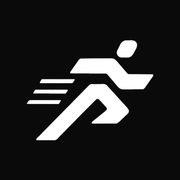
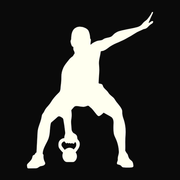
Atualiza a marca para a versão 2026: novo ícone e "Movimento que se constrói."
- Logo, ícone, AURUM e frase recortados do PNG oficial transparente
- Cabeçalho, abertura, menu, Kids, manifesto final e rodapé com a marca nova
- Favicon, ícone Apple e imagem de compartilhamento regenerados
- Arquivos com sufixo -2026 para nenhum cache servir a marca antiga
- Remove a assinatura horizontal antiga

Changed region(s): [[0.1389, 0.0556, 0.8611, 0.9444]]

diff --git a/src/components/ui/Brand.tsx b/src/components/ui/Brand.tsx
@@ -3,78 +3,63 @@ import { brand } from "@/content/aurum";
 import { cn } from "@/lib/utils";
 
 /*
- * Assinaturas montadas com os recortes oficiais (ver scripts/brand-assets.mjs):
- * símbolo + wordmark AURUM, sem alterar proporções. A frase de assinatura
- * ("Movimento que se constrói.") entra como texto, porque as versões do logo
- * com frase trazem a assinatura antiga desenhada.
+ * Marca 2026 recortada do PNG oficial (ver scripts/brand-assets.mjs):
+ * ícone, AURUM e a frase "Movimento que se constrói." na tipografia original.
+ * As proporções são preservadas; só a largura ou a altura é definida via className.
  */
 
 type Props = { className?: string; priority?: boolean };
 
 const ALT = `AURUM — ${brand.tagline}`;
 
-/** Assinatura vertical: símbolo, AURUM e (opcional) a frase embaixo. */
+/** Assinatura vertical oficial: ícone, AURUM e frase. Sem a frase em usos muito pequenos. */
 export function BrandLockup({ className, priority, tagline = true }: Props & { tagline?: boolean }) {
+  if (tagline) {
+    return (
+      <Image
+        src="/aurum/brand/aurum-lockup-2026.png"
+        alt={ALT}
+        width={1287}
+        height={931}
+        preload={priority}
+        className={cn("h-auto", className)}
+        sizes="(max-width: 768px) 60vw, 400px"
+      />
+    );
+  }
   return (
-    <span role="img" aria-label={ALT} className={cn("inline-flex flex-col items-center", className)}>
-      <Image src="/aurum/brand/aurum-symbol.png" alt="" width={347} height={276} preload={priority} className="h-auto w-[44%]" sizes="200px" />
-      <Image src="/aurum/brand/aurum-wordmark-solo.png" alt="" width={792} height={145} preload={priority} className="mt-[7%] h-auto w-full" sizes="400px" />
-      {tagline && <span className="mt-[5%] whitespace-nowrap font-normal tracking-[0.22em] text-bone">{brand.tagline}</span>}
+    <span role="img" aria-label="AURUM" className={cn("inline-flex flex-col items-center", className)}>
+      <Image src="/aurum/brand/aurum-symbol-2026.png" alt="" width={416} height={514} preload={priority} className="h-auto w-[34%]" sizes="160px" />
+      <Image src="/aurum/brand/aurum-wordmark-solo-2026.png" alt="" width={1099} height={205} preload={priority} className="mt-[9%] h-auto w-full" sizes="400px" />
     </span>
   );
 }
 
-/** Assinatura horizontal: símbolo à esquerda, AURUM e a frase à direita. */
+/** Assinatura horizontal: ícone à esquerda; AURUM e a frase à direita. */
 export function BrandHorizontal({ className }: Props) {
   return (
     <span role="img" aria-label={ALT} className={cn("inline-flex items-center gap-[5%]", className)}>
-      <Image src="/aurum/brand/aurum-symbol.png" alt="" width={347} height={276} className="h-auto w-[26%] shrink-0" sizes="90px" />
+      <Image src="/aurum/brand/aurum-symbol-2026.png" alt="" width={416} height={514} className="h-auto w-[20%] shrink-0" sizes="80px" />
       <span className="flex min-w-0 flex-1 flex-col">
-        <Image src="/aurum/brand/aurum-wordmark-solo.png" alt="" width={792} height={145} className="h-auto w-full" sizes="240px" />
-        <span className="mt-[6%] whitespace-nowrap text-[0.6rem] font-normal tracking-[0.12em] text-bone md:text-[0.68rem] md:tracking-[0.16em]">
-          {brand.tagline}
-        </span>
+        <Image src="/aurum/brand/aurum-wordmark-solo-2026.png" alt="" width={1099} height={205} className="h-auto w-full" sizes="260px" />
+        <Image src="/aurum/brand/aurum-tagline-2026.png" alt="" width={1287} height={58} className="mt-[7%] h-auto w-full" sizes="260px" />
       </span>
     </span>
   );
 }
 
-/** Símbolo + wordmark lado a lado, como nas aplicações horizontais da marca. */
+/** Ícone + AURUM lado a lado (cabeçalho). */
 export function BrandInline({ className, priority }: Props) {
   return (
     <span className={cn("inline-flex items-center gap-[0.35em]", className)}>
-      <Image
-        src="/aurum/brand/aurum-symbol.png"
-        alt=""
-        width={347}
-        height={276}
-        preload={priority}
-        className="h-[1.25em] w-auto"
-        sizes="60px"
-      />
-      <Image
-        src="/aurum/brand/aurum-wordmark-solo.png"
-        alt="AURUM"
-        width={792}
-        height={145}
-        preload={priority}
-        className="h-[0.8em] w-auto"
-        sizes="160px"
-      />
+      <Image src="/aurum/brand/aurum-symbol-2026.png" alt="" width={416} height={514} preload={priority} className="h-[1.35em] w-auto" sizes="60px" />
+      <Image src="/aurum/brand/aurum-wordmark-solo-2026.png" alt="AURUM" width={1099} height={205} preload={priority} className="h-[0.75em] w-auto" sizes="180px" />
     </span>
   );
 }
 
 export function BrandSymbol({ className, alt = "" }: Props & { alt?: string }) {
   return (
-    <Image
-      src="/aurum/brand/aurum-symbol.png"
-      alt={alt}
-      width={347}
-      height={276}
-      className={className}
-      sizes="(max-width: 768px) 40vw, 320px"
-    />
+    <Image src="/aurum/brand/aurum-symbol-2026.png" alt={alt} width={416} height={514} className={className} sizes="(max-width: 768px) 40vw, 320px" />
   );
 }
-

diff --git a/src/components/FunctionalKids.tsx b/src/components/FunctionalKids.tsx
@@ -14,12 +14,12 @@ import { EASE_OUT } from "@/lib/utils";
 // Linhas mais nervosas: zigue-zague com quiques curtos
 const ZIGZAG = "M -2 20 L 12 8 L 20 26 L 30 10 L 38 30 L 50 12 L 58 34 L 70 14 L 80 36 L 92 18 L 102 30";
 
-/** O símbolo oficial saltando ao lado do título: mais energia sem virar visual infantil. */
+/** O ícone oficial saltando ao lado do título: mais energia sem virar visual infantil. */
 function HoppingSymbol() {
   return (
     <motion.span
       aria-hidden
-      className="mb-[0.1em] inline-block w-[0.9em] shrink-0"
+      className="mb-[0.1em] inline-block w-[0.72em] shrink-0"
       animate={{ y: ["0em", "-0.34em", "0em", "-0.12em", "0em"] }}
       transition={{ duration: 1.1, times: [0, 0.35, 0.62, 0.8, 1], ease: "easeOut", repeat: Infinity, repeatDelay: 0.5 }}
     >

diff --git a/src/components/Hero.tsx b/src/components/Hero.tsx
@@ -153,7 +153,7 @@ export function Hero() {
               animate={{ opacity: 1, scale: 1 }}
               transition={{ duration: 0.8, ease: EASE_OUT }}
             >
-              <BrandLockup priority tagline={false} className="w-24 md:w-28" />
+              <BrandLockup priority className="w-40 md:w-48" />
             </motion.div>
             {/* Todas as palavras ficam empilhadas; cada uma entra por baixo e sai por cima */}
             <div className="relative h-[1.3em] w-full overflow-hidden text-center leading-[1.3] display t-xl">

diff --git a/src/components/FinalManifesto.tsx b/src/components/FinalManifesto.tsx
@@ -80,7 +80,7 @@ export function FinalManifesto() {
 
         <div className={cn("flex flex-col items-start gap-6", motionOk ? "absolute inset-0 justify-center container-x" : "mt-20")}>
           <div data-fm-symbol>
-            <BrandSymbol className="h-auto w-24 md:w-36" />
+            <BrandSymbol className="h-auto w-20 md:w-28" />
           </div>
           <p className="line-mask">
             <span data-fm-sign className="display t-mega block origin-left">

diff --git a/src/components/ui/AnimatedImage.tsx b/src/components/ui/AnimatedImage.tsx
@@ -29,7 +29,7 @@ type Props = {
   colorize?: boolean;
 };
 
-// Máscara diagonal inspirada nas linhas de velocidade do símbolo AURUM.
+// Máscara diagonal: corte rápido e preciso, na linguagem das diagonais da marca.
 const HIDDEN = "polygon(0% 0%, 0% 0%, -32% 100%, -32% 100%)";
 const SHOWN = "polygon(0% 0%, 132% 0%, 100% 100%, -32% 100%)";
 

diff --git a/src/components/ui/CapacityGlyph.tsx b/src/components/ui/CapacityGlyph.tsx
@@ -117,7 +117,7 @@ export function CapacityGlyph({ kind, active }: Props) {
       break;
     }
     case "potencia": {
-      // Linhas de velocidade + diagonal que dispara (eco do símbolo AURUM)
+      // Linhas de velocidade + diagonal que dispara
       body = (
         <>
           {[20, 34, 48].map((y, i) => (

diff --git a/README.md b/README.md
@@ -33,9 +33,13 @@ O QR Code só deve ser adicionado quando houver o link oficial.
 
 ## Marca
 
-- `brand-source/` guarda as peças oficiais recebidas. A pasta fica fora do repositório (está no `.gitignore`); para rodar o script, coloque ali as lâminas da marca com os mesmos nomes.
-- `public/aurum/brand/` tem logotipo, símbolo e wordmark **recortados pixel a pixel**
-  dessas peças, só com o fundo removido — `npm run brand:assets` regenera.
+- Marca atual (2026): ícone com kettlebell, AURUM e a frase **"Movimento que se constrói."**
+- `brand-source/` guarda os arquivos oficiais recebidos (fora do repositório, no `.gitignore`).
+  O script usa `brand-source/marca-2026-transparente.png` (PNG 2000×2000 com fundo transparente).
+- `public/aurum/brand/` tem `aurum-lockup-2026.png` (assinatura completa), `aurum-symbol-2026.png` (ícone),
+  `aurum-wordmark-solo-2026.png` (AURUM), `aurum-wordmark-2026.png` (AURUM + frase) e `aurum-tagline-2026.png`
+  (só a frase), **recortados pixel a pixel** do PNG oficial — `npm run brand:assets` regenera
+  esses arquivos, o favicon e a imagem de compartilhamento.
   Quando chegarem os vetores originais (SVG/AI/PDF), substitua os PNGs mantendo os nomes.
 - Fonte de apoio oficial: **Montserrat**. Os títulos usam Montserrat Black Itálico.
   Se a AURUM enviar a fonte display das peças sociais, troque `--font-display` em
